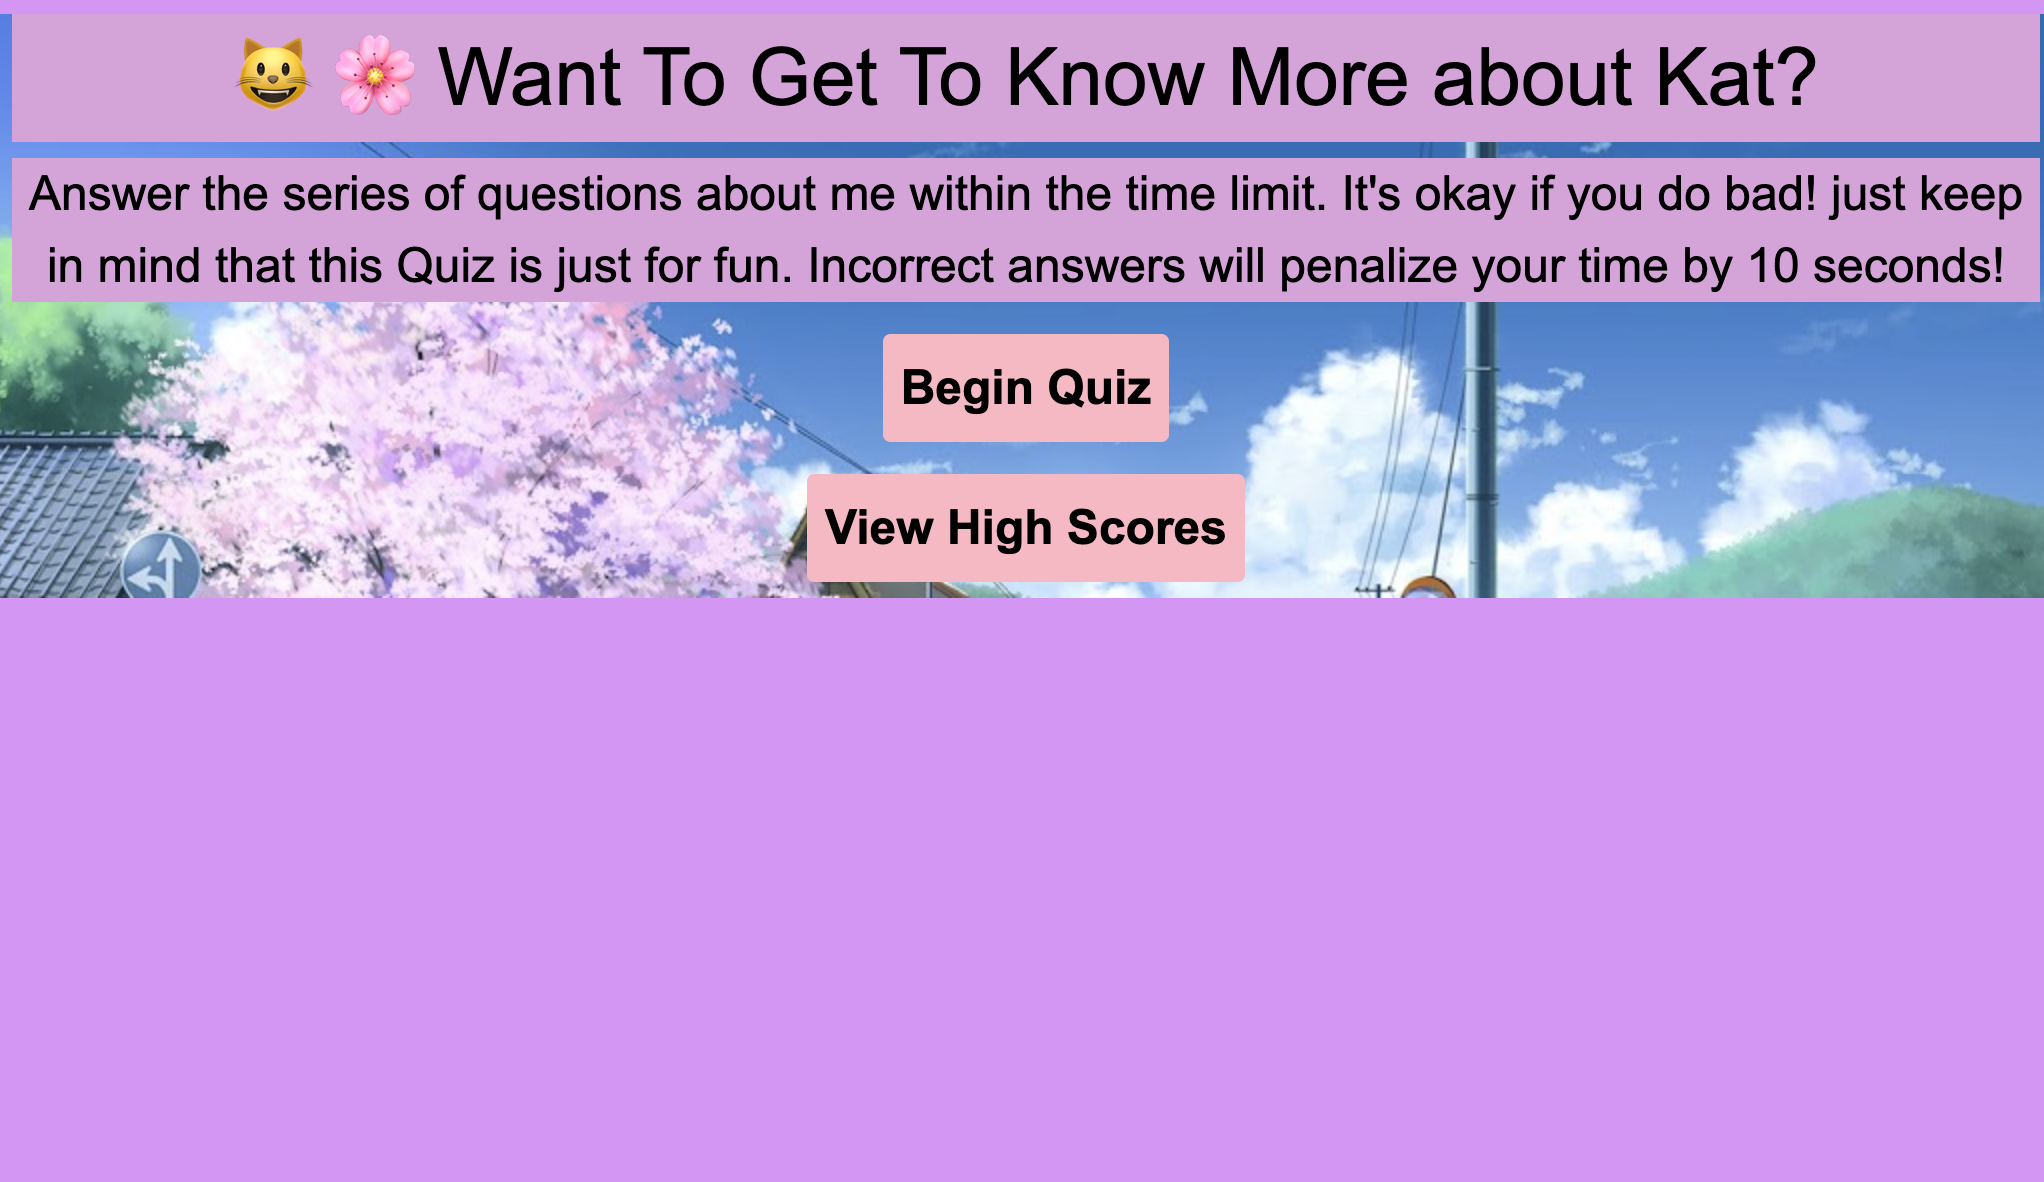
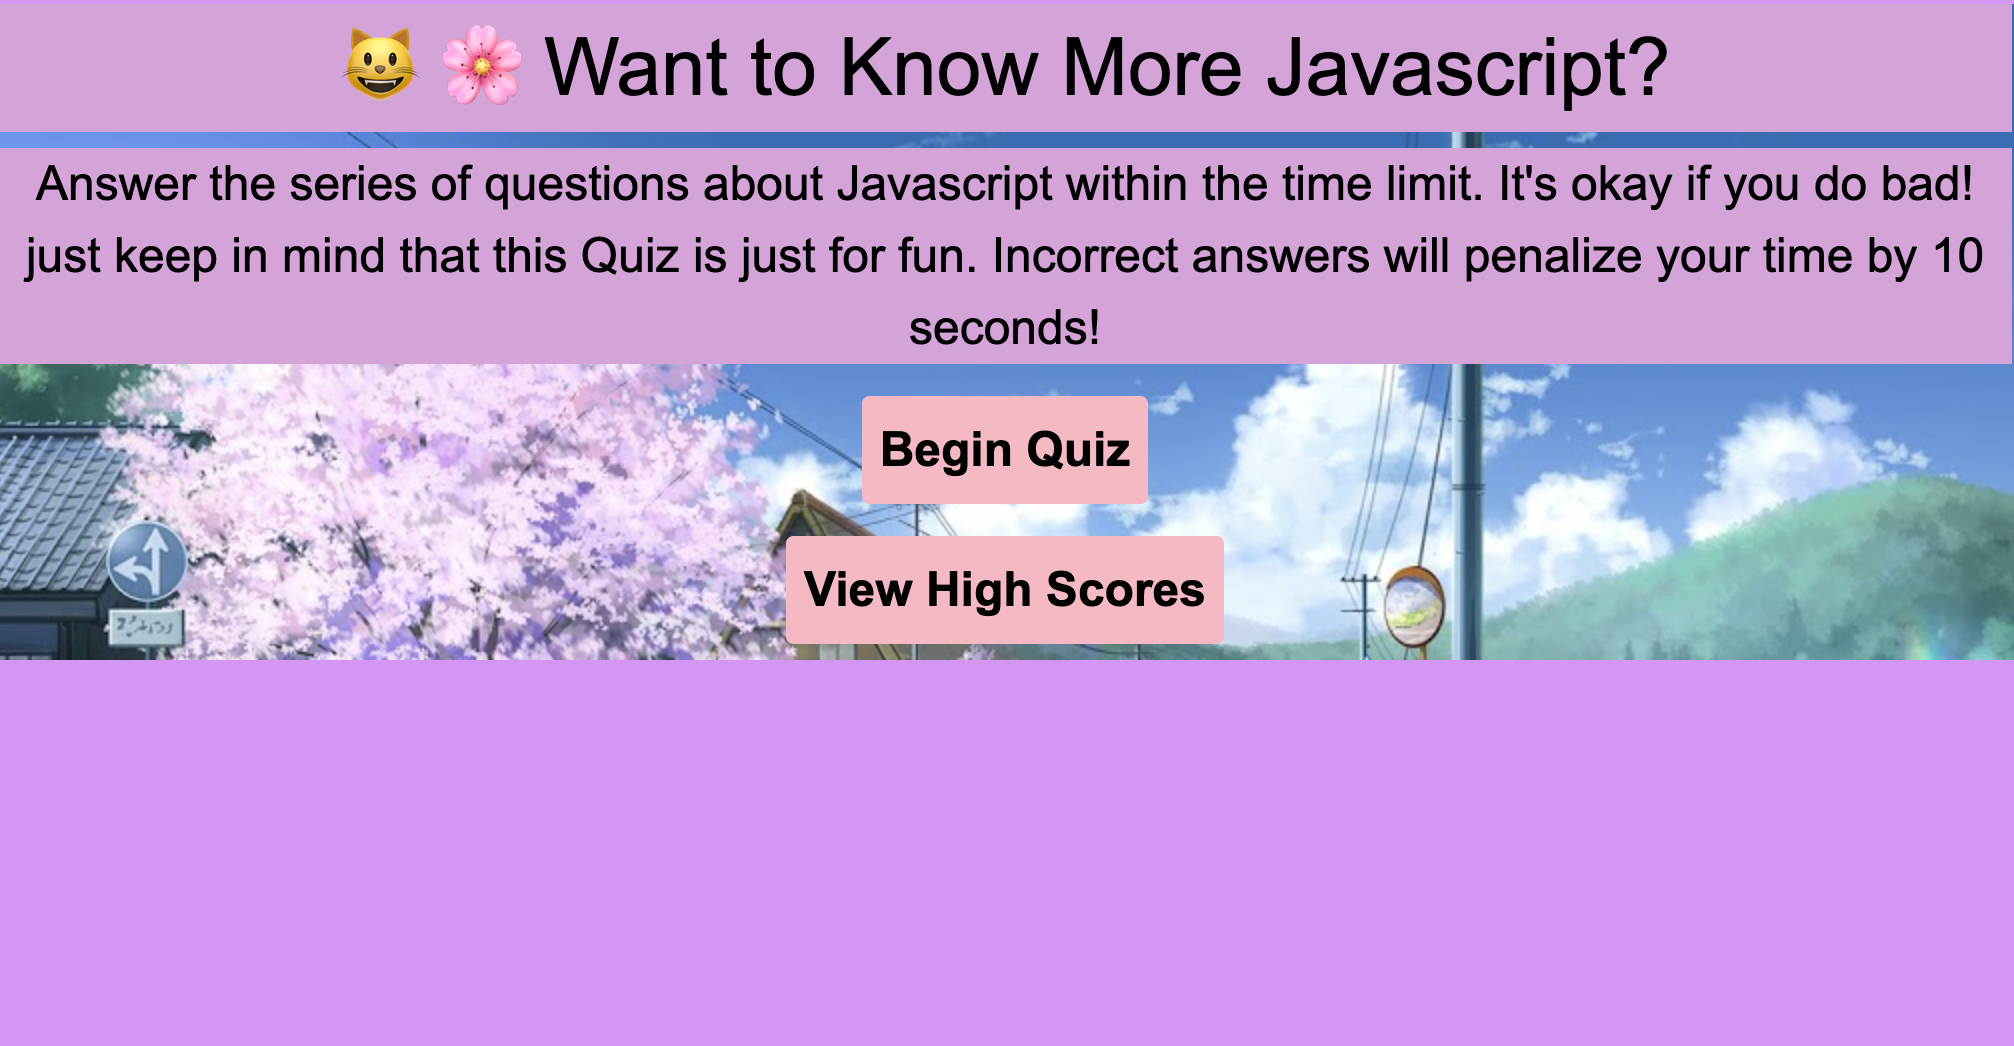
final changes

diff --git a/scriptQuestions.js b/scriptQuestions.js
@@ -1,111 +1,111 @@
 var questions = [
     {   
-        question: "What is Katrina's Favorite Bread?",
+        question: "Which of the following is true about typeof operator in JavaScript",
         selection: [
-        "Croissant",
-        "Sourdough",
-        "Pineapple Bread",
-        "Pita"
+        "document.location='http://www.newlocation.com';",
+        "browser.location='http://www.newlocation.com';",
+        " navigator.location='http://www.newlocation.com';",
+        "window.location='http://www.newlocation.com';"
         ],
-        answer: "Croissant"
+        answer: "window.location='http://www.newlocation.com';"
     },
     {   
-        question: "What is Kat's Favorite Clothing Brand as of May 2022?",
+        question: " Which built-in method returns the character at the specified index?",
         selection: [
-        "COS",
-        "Theory",
-        "Oak+Fort",
-        "Uniqlo"
+        "characterAt()",
+        "TgetCharAt()",
+        "charAt()",
+        "None of the above."
        ],
-        answer: "Theory"
+        answer: "charAt()"
     },
     {   
-        question: "What instrument does Kat play (well lol)?", 
+        question: "Which built-in method returns the calling string value converted to upper case?", 
         selection: [
-        "piano",
-        "violin",
-        "recorder",
-        "flute"
+        "toUpperCase()",
+        "toUpper()",
+        "changeCase(case)",
+        "None of the above."
         ],
-        answer: "flute"
+        answer: "toUpperCase()"
     },
     {
-        question: "What Is Kat's Favorite Music Genre?",
+        question: "Which of the following function of Number object returns a string value version of the current number?",
         selection: [
-        "Kpop",
-        "Jpop",
-        "Metal",
-        "Indie"],
-        answer: "Jpop"
+        "toString()",
+        "toFixed()",
+        "toLocaleString()",
+        "toPrecision()"],
+        answer: "toString()"
     },
     {
-        question: "What is Kat's go-to Boba Order?",
+        question: "Which of the following function of String object returns the characters in a string beginning at the specified location through the specified number of characters?",
         selection: [ 
-        "Classic Bubble Tea",
-        "Brown Sugar Milk",
-        "Strawberry Green Tea with Lychee Jelly",
-        "Yakult Green Tea"
+        "slice()",
+        "split()",
+        "substr()",
+        "search()"
         ],
-        answer: "Yakult Green Tea"
+        answer: "substr()"
     },
     {
-        question: "What is Kat's go-to restaurant in Chinatown NYC?",
+        question: "Which of the following function of String object returns the primitive value of the specified object.",
         selection: [
-        "Go Go Dim Sum",
-        "The Original Bodai Restaurant",
-        "Spring Cafe on Canal Street",
-        "Happy Veggie Restaurant"
+        "toUpperCase()",
+        "toString()",
+        "toLocaleUpperCase()",
+        "valueOf()"
         ],
-        answer: "Spring Cafe on Canal Street"
+        answer: "valueOf()"
     },
     {
-        question: "Kat's favorite dish?",
+        question: "Which of the following function of String object causes a string to be displayed as a subscript, as if it were in a <sub> tag?",
         selection: [
-        "Pasta (ANY TYPE)", 
-        "Ramen", 
-        "Mandy's Salad with Sesame Dressing", 
-        "All Of The Above"
+        "sup()", 
+        "small()", 
+        "strike()", 
+        "sub()"
         ],
-        answer: "All Of The Above"
+        answer: "sub()"
     },
     {
-        question: "Kat's Favorite Ghibli Animation Film",
+        question: "Which of the following function of Array object adds one or more elements to the end of an array and returns the new length of the array?",
         selection: [
-        "Spirited Away", 
-        "Ponyo", 
-        "Howl's Moving Castle", 
-        "Castle in the Sky"],
-        answer: "Howl's Moving Castle"
+        "pop()", 
+        "push()", 
+        "join()", 
+        "map()"],
+        answer: "push()"
     },
     {
-        question: "How Many Languages Does Kat Know Fluently",
+        question: "10 - Which of the following function of Array object reverses the order of the elements of an array?",
         selection: [
-        "3", 
-        "4", 
-        "5", 
-        "2"
+        "reverse()", 
+        "push()", 
+        "reduce()", 
+        "reduceRight()"
         ],
-        answer: "4"
+        answer: "reverse()"
     },
     {
-        question: "What is Kat's Chinese Zodiac Sign",
+        question: "TArrays in JavaScript can be used to store:---",
         selection: [
-        "Rabbit", 
-        "Tiger", 
-        "Ox", 
-        "Dragon"
+        "numbers and strings",
+        "others Arrays",
+        "booleances", 
+        "all of the above"
         ],
-        answer: "Tiger"
+        answer: "all of the above"
     },
     {
-        question: "What is Kat's Spirit Animal",
+        question: "The condition in an if/else statement is enclosed within:---",
         selection: [
-        "Dolphin", 
-        "Cheeta", 
-        "Koala", 
-        "Blobfish"
+        "quotes",
+        "Curly brackets",
+        "parentheses", 
+        "square brackets"
         ],
-        answer: "Koala"
+        answer: "parentheses"
     }
 
 ];

diff --git a/index.html b/index.html
@@ -9,15 +9,15 @@
         integrity="sha384-JcKb8q3iqJ61gNV9KGb8thSsNjpSL0n8PARn9HuZOnIxN0hoP+VmmDGMN5t9UJ0Z" crossorigin="anonymous">
   <link rel="stylesheet" href="https://www.w3schools.com/w3css/4/w3.css">
   <link rel="stylesheet" href="./assets/css/style.css">
-  <title>Code Quiz about Kat</title>
+  <title>Code Quiz from Kat</title>
 </head>
 
 <body style="background-image: url('assets/img/original.jpg');">
 <!--Main Page-->
-  <h1> &#128570 &#127800 Want To Get To Know More about Kat?</h1>
+  <h1> &#128570 &#127800 Want to Know More Javascript?</h1>
   
   <div class="start">
-    <p style="background-color:plum;">Answer the series of questions about me within the time limit. It's okay if you do bad! just keep in mind that this Quiz is just for fun. Incorrect answers will penalize your time by 10 seconds!</p>
+    <p style="background-color:plum;">Answer the series of questions about Javascript within the time limit. It's okay if you do bad! just keep in mind that this Quiz is just for fun. Incorrect answers will penalize your time by 10 seconds!</p>
     <button id="beginBtn" type="button" class="btn">Begin Quiz</button><br>
   </div>
    

diff --git a/README.md b/README.md
@@ -1,1 +1,74 @@
 # code-quiz-byKat
+
+### Review
+* The URL of the functional deployed application:
+
+https://kattheswagger1122.github.io/code-quiz-byKat/
+
+# 04 Web APIs: Code Quiz
+
+As you proceed in your career as a web developer, you will probably be asked to complete a coding assessment, which is typically a combination of multiple-choice questions and interactive challenges. For this challenge, you will build a timed code quiz that's made up of multiple-choice questions. This app will run in the browser and feature dynamically updated HTML and CSS powered by your JavaScript code. It will also feature a clean and polished user interface and be responsive, ensuring that it adapts to multiple screen sizes.
+
+## User Story
+
+```
+AS A coding boot camp student
+I WANT to take a timed quiz on JavaScript fundamentals that stores high scores
+SO THAT I can gauge my progress compared to my peers
+```
+## What I've used outside of week 4
+```
+1. Bootstrap from week 5
+2. link other style sheet to the overall design of the page
+```
+## Acceptance Criteria
+
+```
+GIVEN I am taking a coding quiz
+WHEN I click the Start button
+Then a timer starts and I am presented with a question
+WHEN I answer a question
+Then I am presented with another question
+WHEN I answer a question incorrectly
+THEN time is subtracted from the clock
+WHEN all questions are answered or the timer reaches 0
+THEN the game is over
+WHEN the game is over
+THEN I can save my initials and score
+```
+## ScreenShots
+```
+1 Main Page
+![Begin Quiz](./assets/img/main.png)
+
+2 Quiz Page
+![Quiz Window](./assets/img/questions.png)
+
+3 Wrong Answer Display
+![Wrong Answer](./assets/img/wrong.png)
+
+4 Right Answer Display
+![Right Answer](./assets/img/right.png)
+
+5 Result Page
+![Result Window](./assets/img/result.png)
+
+6 Score Board
+![Scores](./assets/img/scoreBoard.png)
+
+7 Clear
+![ClearScore](./assets/img/clearScore.png)
+
+
+
+
+
+
+
+
+
+
+
+
+---
+© 2022 Trilogy Education Services, LLC, a 2U, Inc. brand. Confidential and Proprietary. All Rights Reserved.
